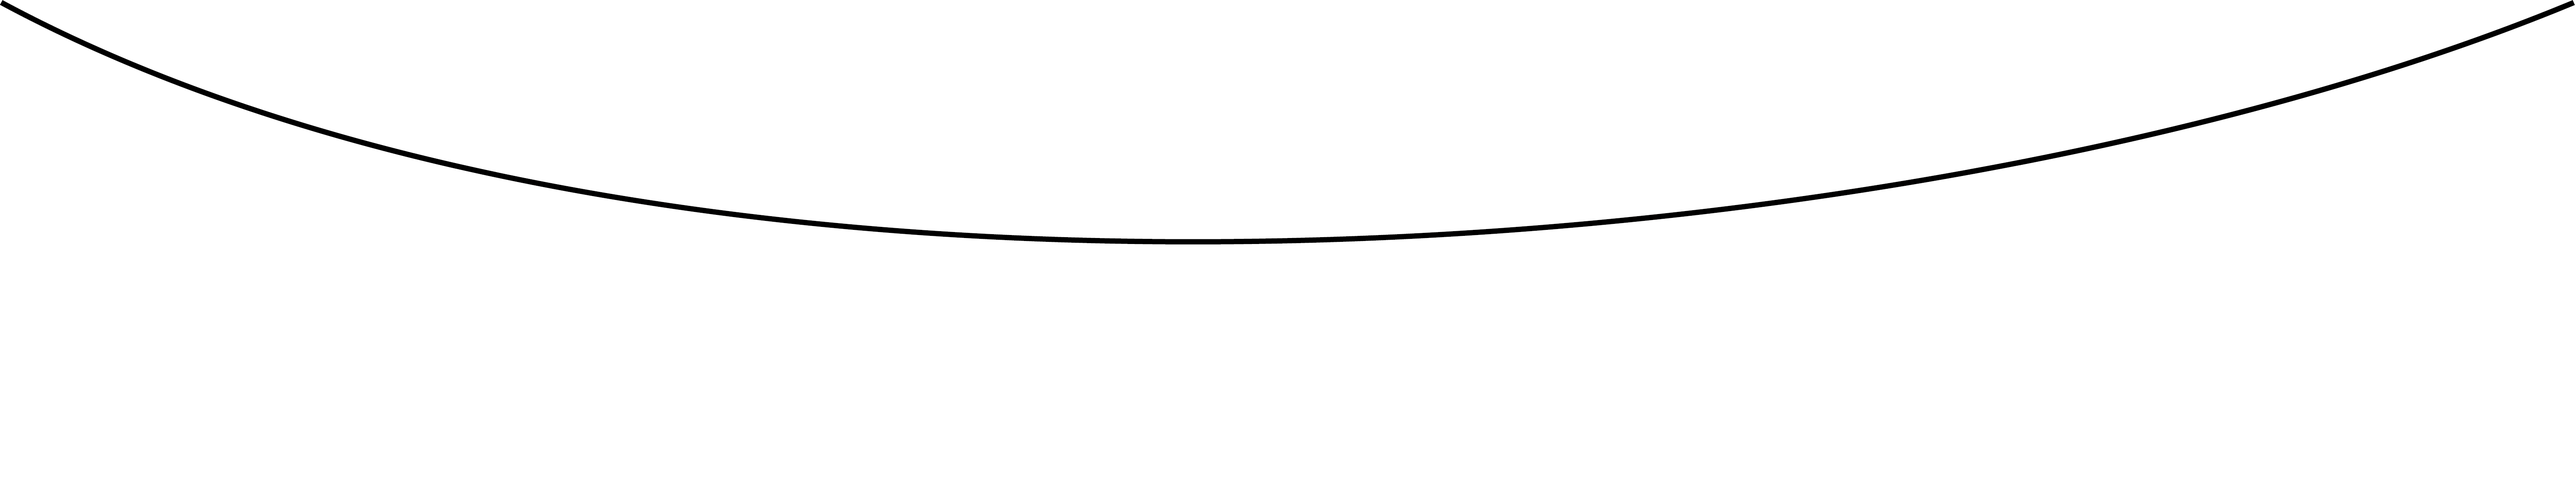
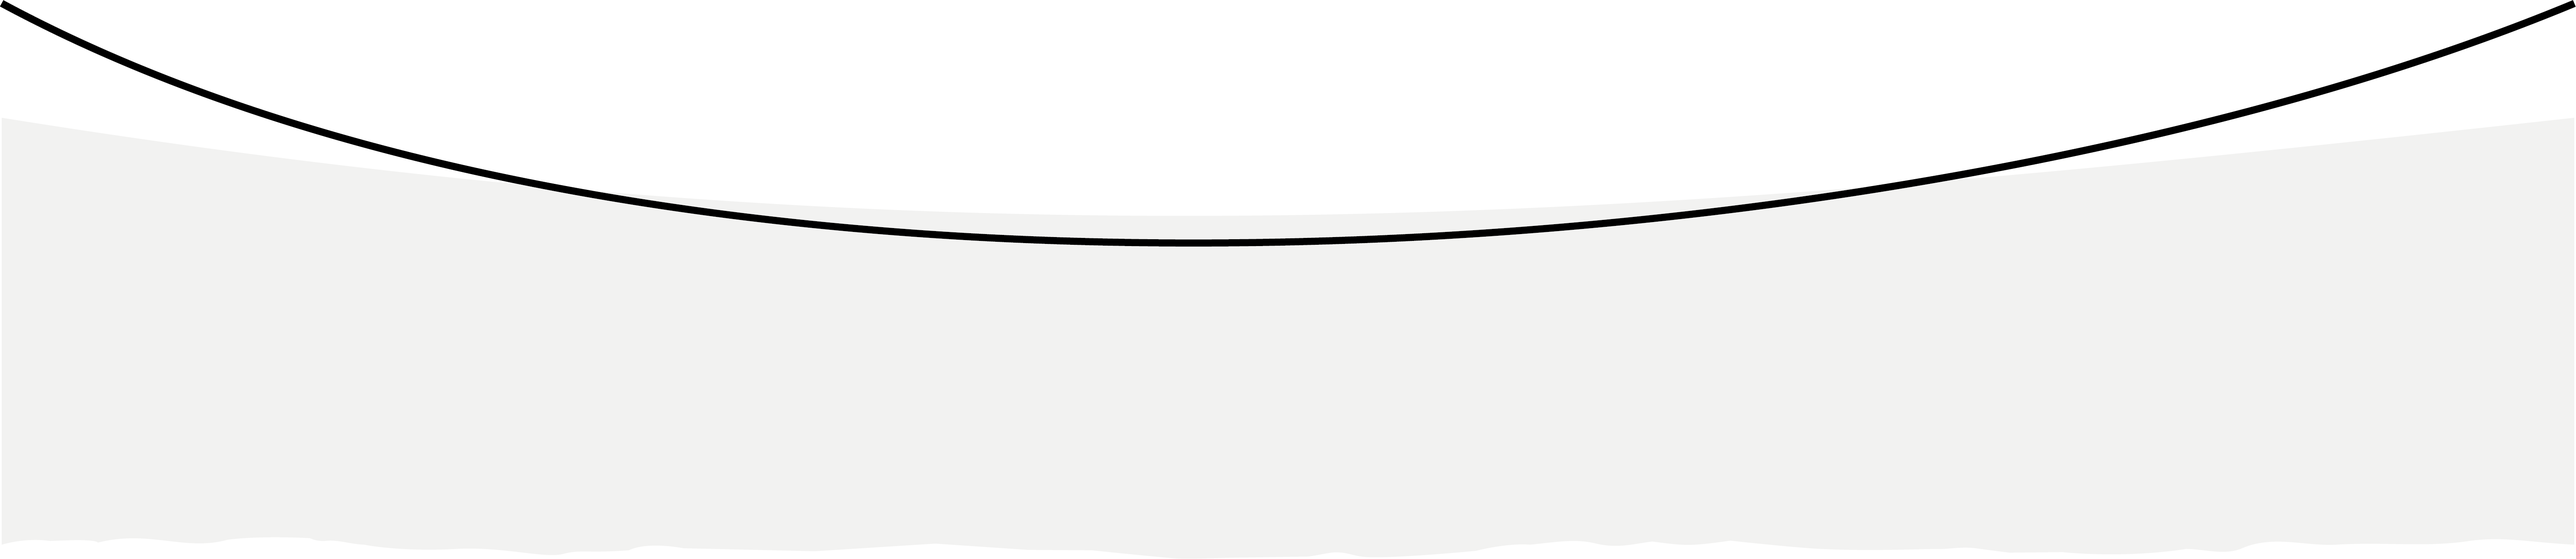
Detalles vista mobile Nosotros WCM

diff --git a/src/components/Nosotros/WilliamMorris/WilliamMorris.css b/src/components/Nosotros/WilliamMorris/WilliamMorris.css
@@ -17,7 +17,6 @@
 }
 
 
-
 .wcm-btn {
     padding: 20px 0;
     border-radius: 10px;
@@ -43,7 +42,9 @@
 
 .info-text-wcm-container {
     display: flex;
-    align-items: center;
+    align-items: start;
+    padding-top: 20px;
+
 }
 
 .wcm-bold {
@@ -52,7 +53,7 @@
 
 .info-text-wcm {
     display: flex;
-    width: 50%;
+    width: 57%;
     flex-direction: column;
     color: var(--white);
     font-size: 18px;
@@ -67,56 +68,74 @@
     position: absolute;
     top: 0;
     right: 0;
+    background-image: url(../../../assets/img/nosotros/william-c-morris.png);
+    height: 621px;
+    background-position: center;
+    background-repeat: no-repeat;
+    background-size: contain;
 }
 
 
 @media screen and (max-width: 980px) {
     
     .william-morris {
-        padding: 40px;
+        padding: 0;
         background-size: cover;
         flex-direction: column;
     }
-    
+
+    .subcategories-wcm-container {
+        display: flex;
+        flex-direction: column;
+        gap: 15px;
+        z-index: 1;
+        position: relative;
+        padding: 40px;
+        padding-bottom: 0;
+    }
+
+    .info-text-wcm-container {
+        padding-top: 0;
+    }
     
     .info-text-wcm {
         font-size: 16px;
         gap: 30px;
-        padding-top: 30px;
-        width: 65%;
+        width: 100%;
+        padding: 40px;
+        padding-top: 0;
+
     }
     
     .wcm-img-container {
-        top: 350px;
+        display: flex;
+        justify-content: center;
+        width: 100%;
+        position: relative;
+        background-image: url(../../../assets/img/nosotros/william-c-morris-mb-2.png);
+        background-repeat: no-repeat;
+        background-size: contain;
     }
+
 }
 
 @media screen and (max-width: 520px) {
-
     .william-morris {
-        padding: 30px;
+        gap: 0;
     }
 
     .info-text-wcm {
         font-size: 14px;
-        width: 78%;
-    }
-    
-    .wcm-bold {
-        width: 65%;
     }
     
     .nosotros-btn {
         font-size: 14px;
     }
-}
 
-@media screen and (max-width: 375px) {
-    .info-text-wcm {
+    .wcm-img-container{
         width: 100%;
-    }
-
-    .wcm-bold {
-       width: 65%;
+        background-image: url(../../../assets/img/nosotros/william-c-morris-mb.png);
     }
 }
+
+

diff --git a/src/components/Nosotros/Financiamiento/Financiamiento.jsx b/src/components/Nosotros/Financiamiento/Financiamiento.jsx
@@ -25,10 +25,8 @@ const Financiamiento = () => {
             
             <div className='info-text-financiamiento-container'>
                 <div className='info-text-financiamiento'>
-                  <p>El Hogar El Alba es una Asociación Civil fundada por William Case Morris y dedicada, desde 1925, a brindar un espacio de contención, crecimiento, abrigo y protección a niños, niñas y adolescentes con derechos vulnerados. </p>
-                  <p>A lo largo de su trayectoria, el hogar ha llevado adelante diferentes programas y proyectos en pos de la niñez desprotegida.</p>
-                  <p>Se realizaron alianzas y articulaciones con distintas instituciones como la fundación CDI (capacitación digital), fundación Banco de Alimentos, Universidad Nacional de Lomas de Zamora, Canford School, Sams y Latin Link. También participó en concursos y foros sobre temáticas relacionadas con la niñez y adolescencia.</p>
-                  <p>En el año 2008 fue reconocido con el premio “Juntos educar” otorgado por la vicaria episcopal de educación.</p>
+                  <p>El Hogar El Alba se sostiene con diversos recursos financieros. Desde hace más de 20 años, a través de convenios realizados con el Gobierno de la Provincia de Buenos Aires, el hogar recibe becas para el sostenimiento de los niños. Por otra parte, se llevan adelante microemprendimientos relacionados con actividades rurales y de campo, como producción y venta de quesos, miel y productos de panadería.</p>
+                  <p>Se realizan articulaciones con entidades que colaboran solidariamente con el hogar. Algunas de ellas nacionales, como el banco de alimentos, entidades religiosas, escuelas y organizaciones de la comunidad; otras extranjeras como escuelas e iglesias.</p>
                 </div>
             </div>
 

diff --git a/src/pages/Home/Home.jsx b/src/pages/Home/Home.jsx
@@ -2,8 +2,10 @@ import './Home.css'
 /* assets */
 import whiteLine from '../../assets/img/home/white-line.png'
 import whiteLineLoop from '../../assets/img/home/white-line-loop.png'
-import whiteWave from '../../assets/img/home/white-wave-2.png'
-import yellowCard from '../../assets/img/home/yellow-card.png'
+import whiteWave from '../../assets/img/home/white-wave.png'
+import irregularHome from '../../assets/img/home/irregular-home.png'
+/* import whiteWaveMobile from '../../assets/img/home/white-wave.png'
+ */import yellowCard from '../../assets/img/home/yellow-card.png'
 import redCard from '../../assets/img/home/red-card.png'
 import blueCard from '../../assets/img/home/blue-card.png'
 import { Link } from 'react-router-dom'
@@ -15,7 +17,8 @@ const Home = () => {
         <div className="banner-container">
           <div className="white-wave-container">
             <img className="white-wave" src={whiteWave} alt='white-wave'/>
-          </div>
+{/*             <img className='white-wave-mb' src={whiteWaveMobile} alt='white-wave-mb'/>
+ */}          </div>
         </div>
         
                       {/* Cards */}

diff --git a/src/components/Nosotros/WilliamMorris/WilliamMorris.jsx b/src/components/Nosotros/WilliamMorris/WilliamMorris.jsx
@@ -1,7 +1,5 @@
 import './WilliamMorris.css'
 import { Link } from 'react-router-dom'
-/* assets */
-import wcm from '../../../assets/img/nosotros/william-c-morris.png'
 
 const WilliamMorris = () => {
   return (
@@ -20,6 +18,10 @@ const WilliamMorris = () => {
                   <button className="nosotros-btn">Cómo nos financiamos</button>
                 </Link>
             </div>
+
+            <div className="wcm-img-container">
+{/*                 <img src={wcm} alt="" className="wcm-img" />
+ */}            </div>
             
             <div className='info-text-wcm-container'>
                 <div className='info-text-wcm wcm-info'>
@@ -46,10 +48,6 @@ const WilliamMorris = () => {
                     </p>
 
                 </div>
-            </div>
-
-            <div className="wcm-img-container">
-                <img src={wcm} alt="" className="wcm-img" />
             </div>
        
     </main>

diff --git a/src/components/Nosotros/Historia/Historia.jsx b/src/components/Nosotros/Historia/Historia.jsx
@@ -9,7 +9,7 @@ const Historia = () => {
             
             <div className="subcategories-historia-container">
                 <Link to='/nosotros'>
-                  <button className="nosotros-btn">Acerca de historia</button>
+                  <button className="nosotros-btn">Acerca de nosotros</button>
                 </Link>
                 <Link to='/william-morris'>
                   <button className="nosotros-btn">William C. Morris</button>

diff --git a/src/pages/Home/Home.css b/src/pages/Home/Home.css
@@ -17,7 +17,6 @@
     left: 0;
     width: 100%;
 } 
-
 /* Cards */
 
 .home-cards-container {
@@ -102,6 +101,7 @@
     font-weight: 400;
     padding-top: 70px;
     padding-bottom: 80px;
+
 }
 
 .quote-line-container {

diff --git a/src/App.css b/src/App.css
@@ -15,8 +15,14 @@
     font-family: var(--asap);
 }
 
+main {
+    max-width: 1440px;
+    margin: 0 auto;
+}
+
 html {
     height: 100vh;
+    background-color: var(--lightBlue);
 }
 
 a {

diff --git a/src/components/Nosotros/Financiamiento/Financiamiento.css b/src/components/Nosotros/Financiamiento/Financiamiento.css
@@ -71,7 +71,9 @@
 
 .info-text-financiamiento-container {
     display: flex;
-    align-items: center;
+    align-items: start;
+    padding-top: 20px;
+
 }
 
 .info-text-financiamiento {

diff --git a/src/components/Nosotros/Historia/Historia.css b/src/components/Nosotros/Historia/Historia.css
@@ -71,7 +71,9 @@
 
 .info-text-historia-container {
     display: flex;
-    align-items: center;
+    align-items: start;
+    padding-top: 20px;
+
 }
 
 .info-text-historia {

diff --git a/src/pages/Nosotros/Nosotros.css b/src/pages/Nosotros/Nosotros.css
@@ -71,7 +71,8 @@
 
 .info-text-nosotros-container {
     display: flex;
-    align-items: center;
+    align-items: start;
+    padding-top: 20px;
 }
 
 .info-text-nosotros {

diff --git a/src/components/Header/Header.css b/src/components/Header/Header.css
@@ -177,6 +177,8 @@ donate-btn:hover {
   cursor: pointer;
 }
 
+
+
 .donate-btn {
   width: 143px;
   height: 41px;
